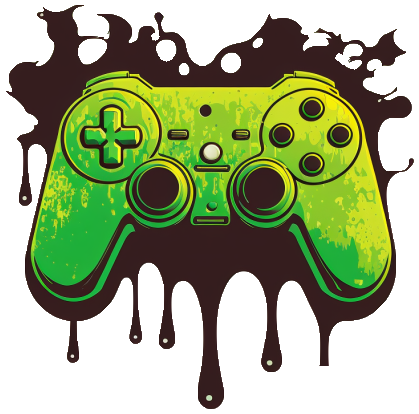
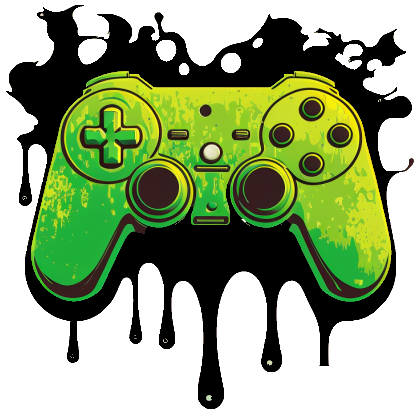
Updated graphic and better thank you text

Changed region(s): [[0.0, 0.0, 0.9928, 0.9855]]

diff --git a/src/components/ContactForm/ContactBanner.vue b/src/components/ContactForm/ContactBanner.vue
@@ -31,6 +31,10 @@
     >
       <h2 class="text-6xl">Thanks for signing up!</h2>
       <p>
+        Thanks a ton for signing up! We're stoked to have you join our community
+        and can't wait to share some awesome updates with you.
+      </p>
+      <p>
         We are excited to game with you! Keep an eye on your email for updates
         and our next events.
       </p>
